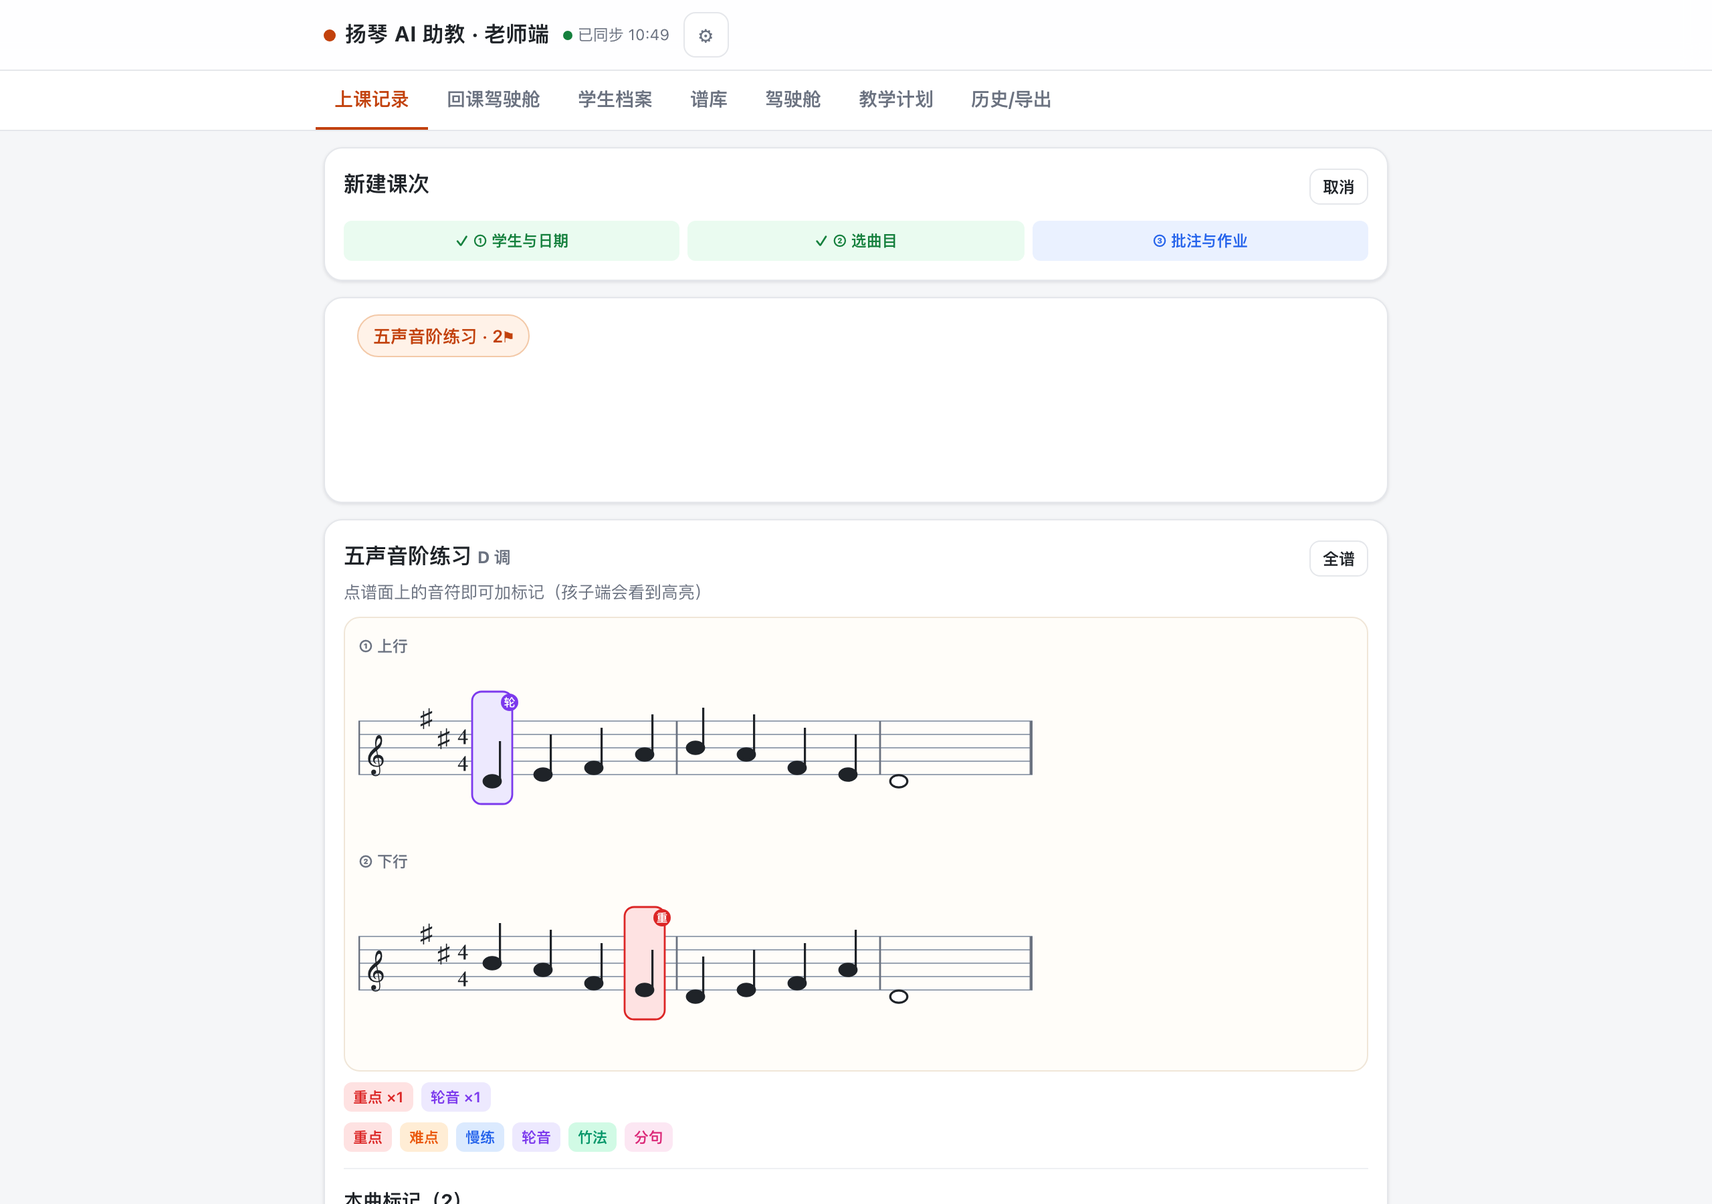
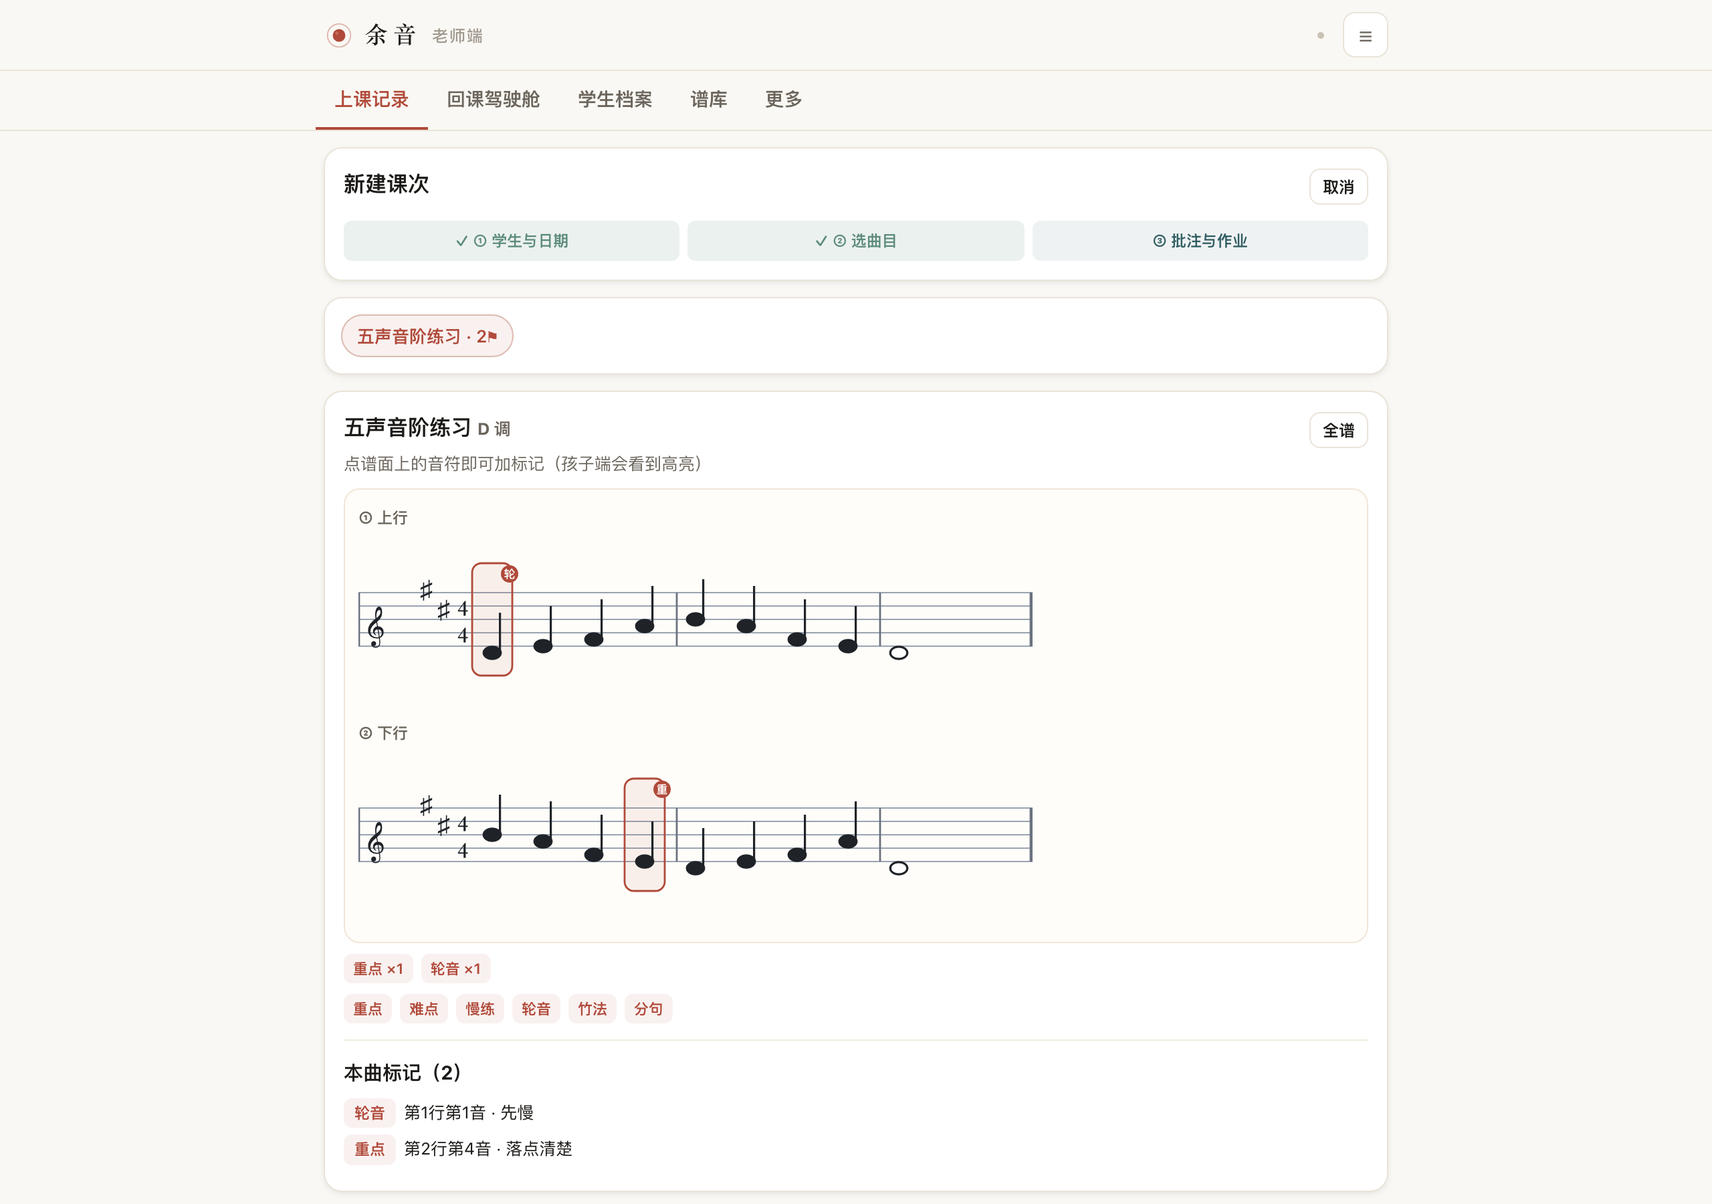
新 UI 全量重截 10 张 README 截图；README 精简为核心亮点
- 修复 .wrap 类名冲突：主容器 .wrap(含 96px 底 padding) 误染所有 .row.wrap 行，
  导致卡片中部大片空白 —— 主容器改名 .pagewrap（index/teacher/student/离线单文件）
- split2.py：BASE 修正为仓库路径；gate 锚点兼容 pagewrap；GATE 模板同步改名
- 演示数据补齐：3 条作业的 title、hw_cll_1 的 sub/marks/review.checks 与新时间戳
- README 从 263 行精简为 87 行：品牌区 + 5 个核心亮点 + 三条红线 + 试用入口
- 10 张截图全部按新 UI 重截（老师端 2560x1800 / 孩子端 780x1688）

diff --git a/prototype/server/public/student.html b/prototype/server/public/student.html
@@ -26,7 +26,7 @@ body{
 }
 button,input,select,textarea{font-family:inherit;font-size:15px;color:inherit}
 button{cursor:pointer;border:none;background:none}
-.wrap{max-width:820px;margin:0 auto;padding:0 12px 96px}
+.pagewrap{max-width:820px;margin:0 auto;padding:0 12px 96px}
 .hide{display:none !important}
 
 /* ---------- 顶栏 ---------- */
@@ -203,7 +203,7 @@ kbd{background:#f3f4f6;border:1px solid var(--line);border-bottom-width:2px;bord
   <button data-tab="s-lib">谱库</button>
 </div></nav>
 
-<main class="wrap" id="loginGate" style="display:none;padding-top:0">
+<main class="pagewrap" id="loginGate" style="display:none;padding-top:0">
   <div style="text-align:center;padding:46px 0 8px">
     <svg width="96" height="96" viewBox="0 0 160 160" aria-hidden="true"><circle cx="80" cy="80" r="62" fill="none" stroke="#B04A3A" stroke-width="2" opacity=".18"/><circle cx="80" cy="80" r="46" fill="none" stroke="#B04A3A" stroke-width="2.4" opacity=".35"/><circle cx="80" cy="80" r="26" fill="#B04A3A"/><circle cx="71.5" cy="71.5" r="6" fill="#D98A75" opacity=".45"/></svg>
     <div style="font-family:'Songti SC','STSong',SimSun,serif;font-size:30px;letter-spacing:14px;text-indent:14px;margin-top:6px">余音</div>
@@ -215,7 +215,7 @@ kbd{background:#f3f4f6;border:1px solid var(--line);border-bottom-width:2px;bord
     <button class="btn pri block stu" onclick="doLogin()">进入我的练习</button>
     <div class="tiny muted" style="margin-top:12px;text-align:center">收不到任务？请老师确认档案里有你的手机号</div>
   </div></main>
-<main class="wrap" id="app"></main>
+<main class="pagewrap" id="app"></main>
 <div class="foot" id="foot"></div>
 
 <div class="toast" id="toast"></div>

diff --git a/prototype/MVP离线单文件版.html b/prototype/MVP离线单文件版.html
@@ -25,7 +25,7 @@ body{
 }
 button,input,select,textarea{font-family:inherit;font-size:15px;color:inherit}
 button{cursor:pointer;border:none;background:none}
-.wrap{max-width:820px;margin:0 auto;padding:0 12px 96px}
+.pagewrap{max-width:820px;margin:0 auto;padding:0 12px 96px}
 .hide{display:none !important}
 
 /* ---------- 顶栏 ---------- */
@@ -199,7 +199,7 @@ kbd{background:#f3f4f6;border:1px solid var(--line);border-bottom-width:2px;bord
   <button data-tab="s-lib">谱库</button>
 </div></nav>
 
-<main class="wrap" id="app"></main>
+<main class="pagewrap" id="app"></main>
 <div class="foot" id="foot"></div>
 
 <div class="toast" id="toast"></div>

diff --git a/prototype/server/public/index.html b/prototype/server/public/index.html
@@ -26,7 +26,7 @@ body{
 }
 button,input,select,textarea{font-family:inherit;font-size:15px;color:inherit}
 button{cursor:pointer;border:none;background:none}
-.wrap{max-width:820px;margin:0 auto;padding:0 12px 96px}
+.pagewrap{max-width:820px;margin:0 auto;padding:0 12px 96px}
 .hide{display:none !important}
 
 /* ---------- 顶栏 ---------- */
@@ -203,7 +203,7 @@ kbd{background:#f3f4f6;border:1px solid var(--line);border-bottom-width:2px;bord
   <button data-tab="s-lib">谱库</button>
 </div></nav>
 
-<main class="wrap" id="app"></main>
+<main class="pagewrap" id="app"></main>
 <div class="foot" id="foot"></div>
 
 <div class="toast" id="toast"></div>

diff --git a/prototype/server/public/teacher.html b/prototype/server/public/teacher.html
@@ -26,7 +26,7 @@ body{
 }
 button,input,select,textarea{font-family:inherit;font-size:15px;color:inherit}
 button{cursor:pointer;border:none;background:none}
-.wrap{max-width:820px;margin:0 auto;padding:0 12px 96px}
+.pagewrap{max-width:820px;margin:0 auto;padding:0 12px 96px}
 .hide{display:none !important}
 
 /* ---------- 顶栏 ---------- */
@@ -203,7 +203,7 @@ kbd{background:#f3f4f6;border:1px solid var(--line);border-bottom-width:2px;bord
   <button data-tab="s-lib">谱库</button>
 </div></nav>
 
-<main class="wrap" id="app"></main>
+<main class="pagewrap" id="app"></main>
 <div class="foot" id="foot"></div>
 
 <div class="toast" id="toast"></div>

diff --git a/README.md b/README.md
@@ -1,262 +1,85 @@
 <div align="center">
   <img src="docs/images/yuyin-logo-animated.svg" width="440" alt="余音 —— 琴竹落下，朱砂音点亮起，余音散开">
   <h1>余 音</h1>
-  <p><b>民乐老师的 AI 助教</b>（原名「扬琴 AI 助教」）</p>
+  <p><b>民乐老师的 AI 助教</b></p>
   <p><i>课结束了，声音还在。</i></p>
 </div>
 
-> **一句话**：老师 3 分钟布置，孩子照着练，练完自动回到老师眼前。
->
-> 一个面向民乐老师的轻量工具：把课堂上的口头指点，变成孩子回家能照着做的练琴任务卡，并且自动回收"练没练、练得稳不稳"的回课证据。
+**一句话**：老师 3 分钟布置，孩子照着练，练完自动回到老师眼前。
+
+把课堂上的口头指点，变成孩子回家能照着做的练琴任务卡，并自动回收"练没练、练得稳不稳"的回课证据——不是 AI 陪练，不是自动纠错。
 
 ---
 
-## 一、谁在用，怎么用
+## 核心亮点
 
-| 角色 | 在哪里用 | 干什么 | 看截图 |
-|---|---|---|---|
-| **民乐老师** | 老师端（桌面 / 平板） | 上课记录 → 在五线谱上点音符加批注 → 一键布置作业；回课驾驶舱看全班进度，逐条批改 | ![老师端-上课记录](docs/images/01-teacher-lessons.png) |
-| **学生** | 孩子端（手机 / 平板） | 输入老师登记的手机号登录 → 看自己的任务卡 → 照着谱面批注练 → 记遍数、计时、录音、节拍器 → 提交回课 | ![孩子端-今日任务](docs/images/08-student-tasks.png) |
-| **家长** | 同一台孩子的手机 | 看到孩子的任务卡和老师的批注，不用再问"今天练什么" | ![孩子端-练习详情](docs/images/09-student-practice.png) |
+### 1 · 在五线谱上点音符 = 课堂批注
 
-两端打开同一个网址就行，**3 秒自动同步**，录音会上传到服务器。孩子一提交，老师那边立刻看到。
+点谱面上任意音符，打上 **轮音 / 重点 / 难点 / 慢练 / 竹法 / 分句** 等 9 种技法标签。孩子端看到的是高亮批注——不用再猜"老师上课说的那句到底是什么意思"。
 
----
+![谱面批注](docs/images/05-teacher-newlesson-score.png)
 
-## 二、它解决了什么问题
+### 2 · 微目标四要素：技法 · 片段 · 成功标准 · 遍数
 
-不是 AI 陪练，不是自动纠错——是另一件事。
+每条作业必须含这四项，孩子端按一条条练、达标才结算。一句指令（≤30 字）原样下发、不做改写，截止日期自动算；「从批注生成」一键把谱面批注转成微目标。
 
-```
-课堂（信息产生） → 课后（指令传递） → 家庭（执行） → 回课（验证）
-                        ↑                                  ↑
-              老师说的话，孩子回家忘一半          练没练、练得稳不稳，老师全靠猜
-```
+![微目标](docs/images/06-teacher-newlesson-goals.png)
 
-**根因只有一句话：老师的大脑是这条链上唯一的数据库。**
+### 3 · 回课驾驶舱：一张表看全班
 
-所以它做的事情是——把老师脑子里的东西，外化成「家长能执行、孩子能对照、老师能验证」的练琴任务卡，并且自动回收执行证据。
+待回课 / 未提交 / 已回课三个数；每个孩子练了几分钟、几遍、自评如何、有没有录音，一目了然。听录音 → 勾要点 → 达标/需再练 → 一句话评语。
 
----
+![回课驾驶舱](docs/images/02-teacher-dashboard.png)
 
-## 三、完整功能介绍（按使用链路）
+### 4 · 孩子端只做一件事：照着练
 
-### 1. 老师端 · 上课记录 → 一键生成任务卡
-
-![老师端-上课记录](docs/images/01-teacher-lessons.png)
-
-打开老师端，"上课记录"页就是默认页：
-
-- **最近课次**：每个学生最近的课、用了哪首曲子、生成了几张任务卡、老师的课堂要点
-- **新建一次课**：3 步向导——① 选学生与日期 → ② 选曲目（11 首入门曲库）→ ③ 在五线谱上点音符加批注
-
-#### 在五线谱上点音符加批注
-
-![新建一次课-谱面批注](docs/images/05-teacher-newlesson-score.png)
-
-- 自绘五线谱（不是图片，是 SVG，可以逐个音符点击）
-- 点一个音符 → 选标签：**轮音 / 重点 / 难点 / 慢练 / 竹法 / 分句** 等 9 种技法
-- 同一个音可以打多个标签，孩子端看到的是高亮批注
-
-#### 布置微目标（四要素）
-
-![新建一次课-微目标](docs/images/06-teacher-newlesson-goals.png)
-
-- **技法 · 片段 · 成功标准 · 遍数**——每条必须含这四项，孩子端会按一条条练
-- 「↻ 从批注生成」一键把谱面批注转成微目标
-- 一句指令（≤30 字）原样下发到孩子端，不做任何改写
-- 截止日期自动算（默认 +6 天）
-
-### 2. 老师端 · 回课驾驶舱
-
-![老师端-回课驾驶舱](docs/images/02-teacher-dashboard.png)
-
-一张表看全班：
-
-- **三个计数**：待回课（孩子交了老师还没批）/ 未提交（作业布置了还没练）/ 已回课（老师批过了）
-- **每个孩子的回课卡片**：练了几分钟、几遍、自评怎么样、有没有录音、孩子留了什么话
-- **微目标逐条**：达标数 / 3 遍、还需 N 遍达标
-- **去回课** → 听录音 → 勾掉老师划的要点 → 判定（达标 / 需再练 / 不评） → 写一句话评语
-
-### 3. 老师端 · 学生档案
-
-![老师端-学生档案](docs/images/03-teacher-students.png)
-
-- 每个学生一张卡：姓名头像、入门时长、登录手机号（**孩子用它登录**）
-- 三项计数：布置 / 提交 / 达标
-- 操作：直接布置作业（不进入上课流程）/ 作业记录 / 改手机号
-
-### 4. 老师端 · 谱库
-
-![老师端-谱库](docs/images/04-teacher-scores.png)
-
-- **11 首入门曲目**：五声音阶练习、轮音长音、八度双音、琶音、小星星、两只老虎、欢乐颂、铃儿响叮当、玛丽有只小羊羔……
-- 每首标注：分类（基本功 / 入门曲目）、调号、BPM、难度
-- 老师布置时可一键引用
-
-### 5. 孩子端 · 登录
-
-![孩子端-登录](docs/images/07-student-login.png)
-
-- 输入老师登记过的手机号 → 登录成功并自动记住
-- 孩子端默认纯绿色调（区别于老师端的橙色），操作只围绕"练"这一件事
-
-### 6. 孩子端 · 今日任务
+任务卡 → 谱面批注对照 → 计时 / 记遍数 / 节拍器 → 逐条微目标圆点点亮 → 一键提交回课。本周进度是"0/3"的圆点阵——**不排名、不打百分、不评星级**。
 
 ![孩子端-今日任务](docs/images/08-student-tasks.png)
 
-- 顶部是这周完成度（X/X 张任务卡）
-- 每张卡：曲目、调号、遍数 / 分钟 / BPM / 截止日期、谱面批注（轮音×1、重点×1）、"看谱与要点"和"开始练习"两个按钮
-- **底部是本周微目标**：每条进度条 + "还需 N 遍达标"——孩子能自己看到还要做什么
+### 5 · 老师批改，当天回到孩子手里
 
-### 7. 孩子端 · 练习详情
+达标 / 需再练 + 一句话评语，孩子端"我的回课"直接看到——补上闭环的最后一环。
 
-![孩子端-练习详情](docs/images/09-student-practice.png)
-
-打开"开始练习"后：
-
-- **五线谱**：老师划的轮音（紫色框）/ 重点（红色框）高亮显示
-- **老师划的重点**：列出来，一条一条对
-- **计时 + 遍数 + 节拍器**：自己控制练多久、记多少遍、可选 60 BPM 节拍器辅助
-- **逐条微目标**：1/3、2/3、3/3 切换，每条练完自己判断"这一遍做到了吗"——做到进度条前移
-- **录音**（可选）：录一段最完整的一遍上传给老师
-- **自评**：还行 / 很棒 / 卡住了——**不参与打分**，只让老师知道孩子心情
-- **提交回课**：一键回到老师驾驶舱
+![孩子端-我的回课](docs/images/10-student-feedback.png)
 
 ---
 
-## 四、三条产品红线（写代码会被打回的那种）
+## 三条产品红线
 
-| # | 红线 | 为什么 |
-|---|---|---|
-| 1 | **AI 只做事实判断，不做价值判断** | AI 可以答「练没练 / 练得稳不稳」，**绝不**答「弹得对不对 / 好不好」。后者一旦出现，老师和家长都会失去信任。 |
-| 2 | **不排名、不打百分、不评星级** | 禁止排行榜、禁止积分商城、禁止"优秀/良好/及格"。物质奖励和排名会触发过度理由效应（Deci 1971），把"我想弹"换成"我要拿分"。 |
-| 3 | **不做实时打断式陪练** | 练琴被打断就会停止。产品只记录与反馈，不在练习过程中跳出来纠错。 |
-
-练习难度按 **85% 规则**自适应（Wilson 2019, *Nature Communications* 10:4646 — 最优错误率 15.87%）。太简单无聊，太难挫败，留 15% 出错空间学得最快。
+| # | 红线 |
+|---|---|
+| 1 | AI 只做事实判断（练没练、稳不稳），**绝不**判断"弹得对不对、好不好" |
+| 2 | 不排名、不打百分、不评星级——保护"我想弹"的内在动机 |
+| 3 | 不做实时打断式陪练——练琴被打断就会停止 |
 
 ---
 
-## 五、立即试用
-
-### 方式 A · 线上（最快）
+## 立即试用
 
 | 端 | 地址 |
 |---|---|
 | 老师端 | <https://36b79044b1854b828c41ca903625ca6c.app.workbuddy.link/t> |
 | 孩子端 | <https://36b79044b1854b828c41ca903625ca6c.app.workbuddy.link/s> |
 
-内置演示账号：
+演示手机号（孩子端登录）：`13800000000` 尹小璐 · `13800000001` 林小雨（已提交待批） · `13800000002` 陈乐乐（已批改达标）
 
-| 姓名 | 手机号 | 角色 |
-|---|---|---|
-| 尹小璐（置顶） | `13800000000` | 孩子端：登录后看到 1 张五声音阶练习作业 |
-| 林小雨 | `13800000001` | 孩子端：1 张小星星作业（已提交，待老师回课） |
-| 陈乐乐 | `13800000002` | 孩子端：1 张五声音阶作业（已批改达标） |
-
-### 方式 B · 本地跑（推荐，数据在你手上）
+本地跑（零依赖，Node ≥ 18）：
 
 ```bash
-cd prototype/server
-node server.js          # 零依赖，Node >= 18
-# 浏览器打开 http://localhost:8787/t   老师端
-# 浏览器打开 http://localhost:8787/s   孩子端
+cd prototype/server && node server.js
+# 老师端 http://localhost:8787/t   孩子端 http://localhost:8787/s
 ```
 
-手机要访问：电脑和手机连同一个 Wi-Fi，用电脑的局域网 IP 替换 `localhost`（`ifconfig | grep inet` 查）。
-
-### 方式 C · 离线单文件
-
-双击 `prototype/MVP离线单文件版.html`。老师端和孩子端在同一个页面里切换，数据存在浏览器本地——**适合演示，不适合真的多人协作**。
-
-试用物料（`试用包/`，可直接打印或转发）：
-
-| 文件 | 说明 |
-|---|---|
-| `扬琴AI助教-试用说明.html` / `.pdf` | 一页纸：两个入口二维码、演示手机号、四步上手、三条红线、5 个反馈问题、家长话术 |
-| `老师端入口二维码.png` / `孩子端入口二维码.png` | 单独二维码，便于贴海报或发群 |
-
 ---
 
-## 六、完整文档与交付物
+## 更多
 
-### 文档（`docs/`）
+- **完整文档**（`docs/`）：8 卷市场调研 + PRD（73 条功能需求）+ 研发 SPEC，全部带分级信源与可复算假设
+- **离线单文件**：`prototype/MVP离线单文件版.html` 双击即开，适合演示
+- 完整链路：上课记录 → 谱面批注 → 布置作业 → 孩子练习 → 提交回课 → 老师批改
 
-| 文件 | 内容 |
-|---|---|
-| `01-市场机会深度调研.html` | 家长痛点、AI 机会、已有产品功能与商业模式 |
-| `02-产品设计深度篇.html` | 功能设计与优先级 |
-| `03-扬琴定制篇.html` | 落到扬琴这一个乐器上怎么做 |
-| `04-竞品全景与产品战略篇.html` | 竞品拆解与战略定位 |
-| `05-决策收敛书.html` | 最终定稿结论 |
-| `06-需求池与前景研判.html` | 兴趣学习家庭规模与趋势 |
-| `07-民乐老师AI助教方案篇.html` | 收敛到"民乐老师"的最新方案 |
-| `08-孩子端动机与游戏化篇.html` | 孩子为什么练、怎么激励 |
-| `PRD-产品需求文档.html` | 完整 PRD：73 条功能需求 / 20 条非功能需求 |
-| `SPEC-研发规范.md` | 工程约定、WBS、微信小程序平台约束 |
-
-每份 HTML 报告都带分级信源（A/B/C/D）、「已主动剔除的假数据」与「已知缺口」章节，可复算。
-
-### 原型（`prototype/`）
-
-| 文件 | 说明 |
-|---|---|
-| `MVP离线单文件版.html` | 双击就能开，数据存本地，适合一个人演示 |
-| `server/` | **双端实时同步版**：老师端和孩子端各一个网址，数据实时互通 |
-
-**重要约定**：`prototype/server/public/index.html` 是**唯一源文件**。`teacher.html` 和 `student.html` 由拆分脚本从它派生，不要直接改派生文件，否则下次拆分会被覆盖。
-
----
-
-## 七、这条路是怎么走出来的
-
-这个项目不是凭空做的——它是 8 卷市场调研 + 1 份 PRD + 1 份 SPEC + 1 个可运行原型的完整闭环：
-
-1. **市场调研**（`docs/01`–`08`）：从音乐教育市场的真实数字出发——2024 年 1554.8 亿产值、2025 年 -5.5%、扬琴在学 5–40 万、师生比 30:1、出生人口 -17%——逐步收敛到"民乐老师的 AI 助教"这个具体方向
-2. **PRD / SPEC**：73 条功能需求 + 20 条非功能需求；三条红线写进 SPEC 第 17 节
-3. **原型**：HTML / Node 零依赖，能跑通"上课记录 → 谱面批注 → 布置作业 → 孩子练习 → 提交回课 → 老师批改"完整链路
-
-**关键发现**：
-
-- 真人 1v1 陪练已被证伪（师资成本 >60% + 获客 ~50% → 结构性亏损 >30%）
-- 硬件 + 重度 AI 纠错也被证伪（音乐笔记 2017 年 A 轮后再无融资）
-- **扬琴第一痛点是调音不是陪练**，与钢琴相反——这是入口设计的关键
-- 儿童池子不可逆塌缩：2025 出生人口 -17%，义务教育适龄儿童 2025–2035 降 50–60%
-- **真正缺的是教学记忆的外化系统**，不是更聪明的纠错
-
----
-
-## 八、已知缺口（不装的）
-
-- 老师付费意愿（¥398–998）目前没有直接证据，只有间接对标（Tonara $9.99–12/月）
-- "民乐在学 1500 万"这个口径可能高估可服务市场 3–5 倍（按师生比反推，活跃学生仅 280–490 万）
-- 扬琴天花板：3 年 SOM 约 ¥300 万/年 —— **撑得起高毛利工作室，撑不起融资公司**
-- 暂未跑通真实 V0.1 验证（微信群 + 表格手动跑 5–10 学生 4 周，回课率 <40% 则整套方案作废）—— 跑通之前不要写更多代码
-
-下一步要验证的事（0 元，现在就能做）：
-
-| 编号 | 动作 | 判定标准 |
-|---|---|---|
-| E1 | 记两周真实练琴日志 | — |
-| E2 | 访谈 3–5 位家长 | — |
-| **E3** | **调音实测（最关键，只有扬琴老师能做）** | 耗时 <15 分钟 且 放弃率 <30%，否则方向要重设计 |
-| T1 | 用微信群 + 表格手动跑 5–10 个学生，4 周 | 回课率 <40% 则整套方案作废 |
-
----
-
-## 九、数据口径
-
-- 所有数值类结论先跑脚本验算再写进报告，假设全部公开，可复算
-- 信源分四级：**A** 官方/协会/上市公司财报 ｜ **B** 权威媒体与研究报告 ｜ **C** 行业媒体与公开访谈 ｜ **D** 推算（假设已注明）
-- 每份报告末尾有完整信源清单，正文带引用角标
-- 互相矛盾的数据（例如某文档农场口径的"扬琴机构 2.8 万家"）已主动剔除并说明理由
-
----
-
-## 十、许可
-
-代码与原型：MIT。
-文档内容：转载请注明出处。
+代码与原型：MIT ｜ 文档内容：转载请注明出处
 
 ---
 
